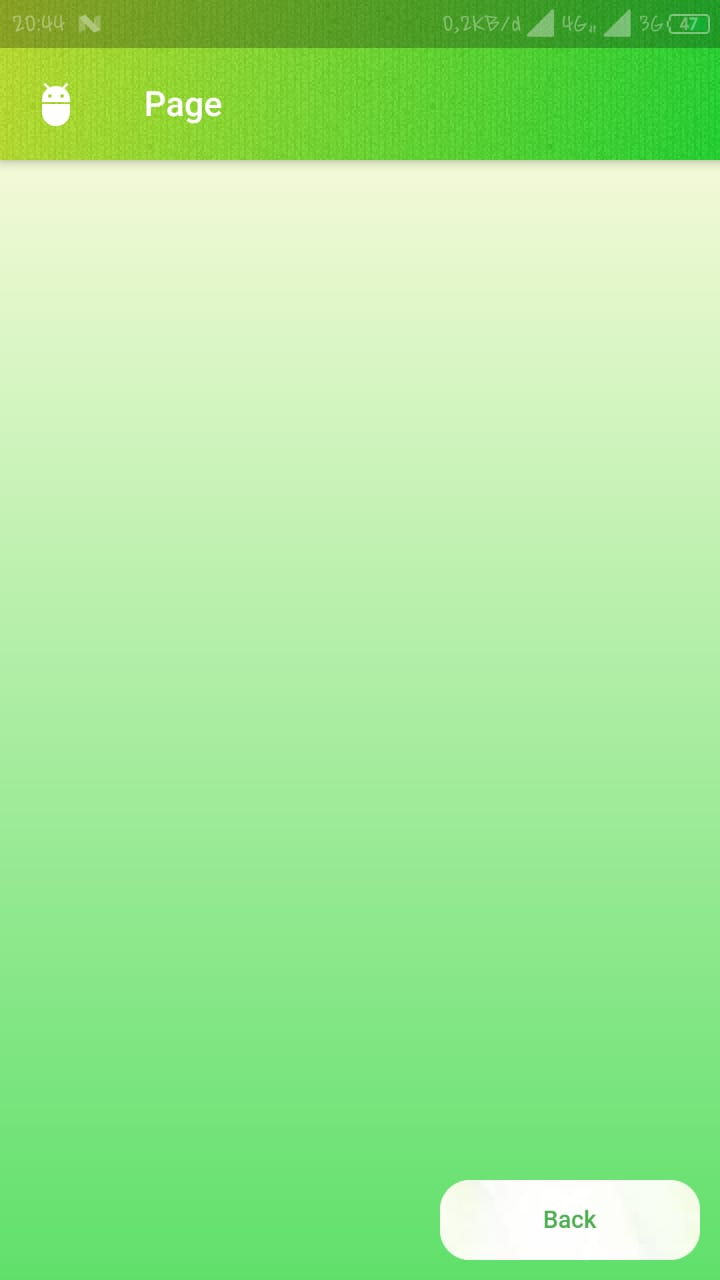
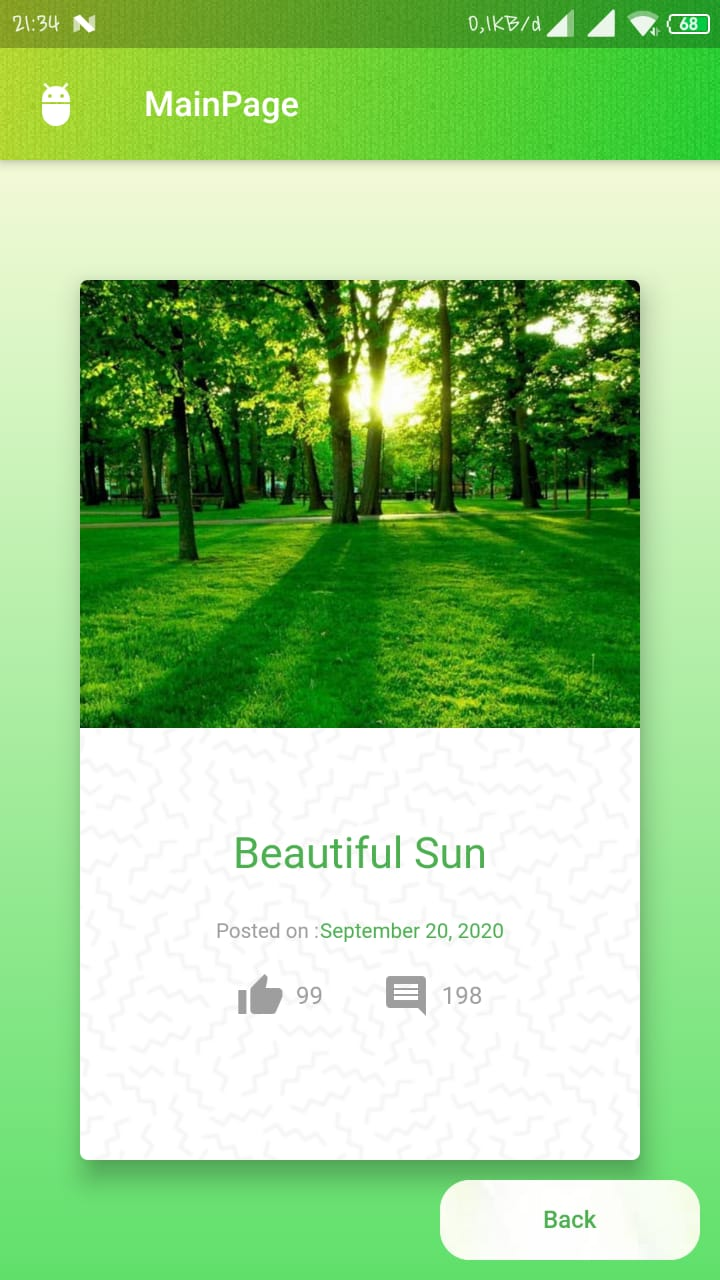
update

diff --git a/lib/MainPage.dart b/lib/MainPage.dart
@@ -17,7 +17,7 @@ class MainPage extends StatelessWidget {
               color: Colors.white,
             ),
             title: Text(
-              "Page",
+              "MainPage",
               style: TextStyle(color: Colors.white),
             ),
             // actions: [
@@ -45,6 +45,113 @@ class MainPage extends StatelessWidget {
                         colors: [Color(0xFFF3FAD7), Color(0xFF60E06B)],
                         begin: Alignment.topCenter,
                         end: Alignment.bottomCenter)),
+              ),
+              Center(
+                child: SizedBox(
+                    width: MediaQuery.of(context).size.width * 0.8,
+                    height: MediaQuery.of(context).size.height * 0.7,
+                    child: Card(
+                      elevation: 10,
+                      child: Stack(
+                        children: [
+                          Opacity(
+                            opacity: 0.7,
+                            child: Container(
+                              decoration: BoxDecoration(
+                                borderRadius: BorderRadius.circular(5),
+                                image: DecorationImage(
+                                    image: NetworkImage(
+                                        "https://www.toptal.com/designers/subtlepatterns/patterns/memphis-mini.png"),
+                                    fit: BoxFit.cover),
+                              ),
+                            ),
+                          ),
+                          Container(
+                            height: MediaQuery.of(context).size.height * 0.35,
+                            decoration: BoxDecoration(
+                                borderRadius: BorderRadius.only(
+                                    topLeft: Radius.circular(4),
+                                    topRight: Radius.circular(4)),
+                                image: DecorationImage(
+                                    image: NetworkImage(
+                                        "https://moderndiplomacy.eu/wp-content/uploads/2018/03/greenplanet.jpg"),
+                                    fit: BoxFit.cover)),
+                          ),
+                          Container(
+                            margin: EdgeInsets.fromLTRB(
+                                20,
+                                50 + MediaQuery.of(context).size.height * 0.35,
+                                20,
+                                20),
+                            child: Center(
+                              child: Column(
+                                children: [
+                                  Text(
+                                    "Beautiful Sun",
+                                    maxLines: 2,
+                                    textAlign: TextAlign.center,
+                                    style: TextStyle(
+                                        color: Colors.green, fontSize: 25),
+                                  ),
+                                  Container(
+                                    margin: EdgeInsets.fromLTRB(0, 20, 0, 15),
+                                    child: Row(
+                                      mainAxisAlignment:
+                                          MainAxisAlignment.center,
+                                      children: [
+                                        Text(
+                                          "Posted on :",
+                                          style: TextStyle(
+                                              color: Colors.grey, fontSize: 12),
+                                        ),
+                                        Text(
+                                          "September 20, 2020",
+                                          style: TextStyle(
+                                              color: Colors.green,
+                                              fontSize: 12),
+                                        ),
+                                      ],
+                                    ),
+                                  ),
+                                  Row(
+                                    children: [
+                                      Spacer(
+                                        flex: 10,
+                                      ),
+                                      Icon(
+                                        Icons.thumb_up,
+                                        color: Colors.grey,
+                                      ),
+                                      Spacer(
+                                        flex: 1,
+                                      ),
+                                      Text(
+                                        "99",
+                                        style: TextStyle(color: Colors.grey),
+                                      ),
+                                      Spacer(
+                                        flex: 5,
+                                      ),
+                                      Icon(Icons.comment, color: Colors.grey),
+                                      Spacer(
+                                        flex: 1,
+                                      ),
+                                      Text(
+                                        "198",
+                                        style: TextStyle(color: Colors.grey),
+                                      ),
+                                      Spacer(
+                                        flex: 10,
+                                      ),
+                                    ],
+                                  )
+                                ],
+                              ),
+                            ),
+                          )
+                        ],
+                      ),
+                    )),
               ),
               Column(
                 mainAxisAlignment: MainAxisAlignment.end,
